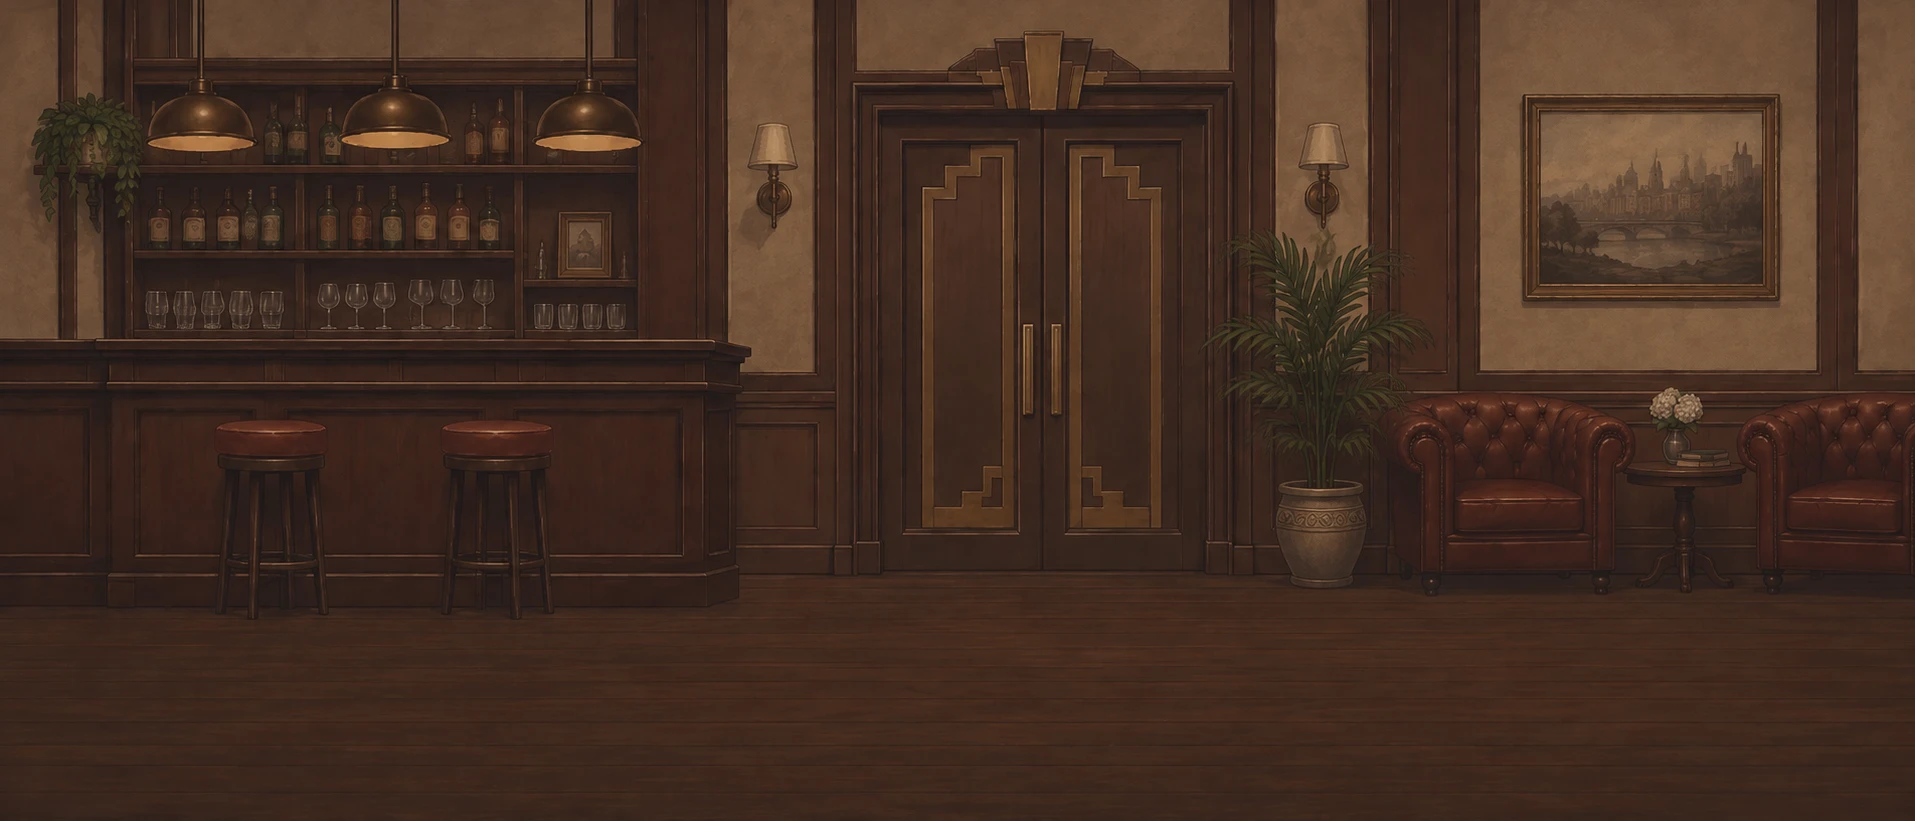
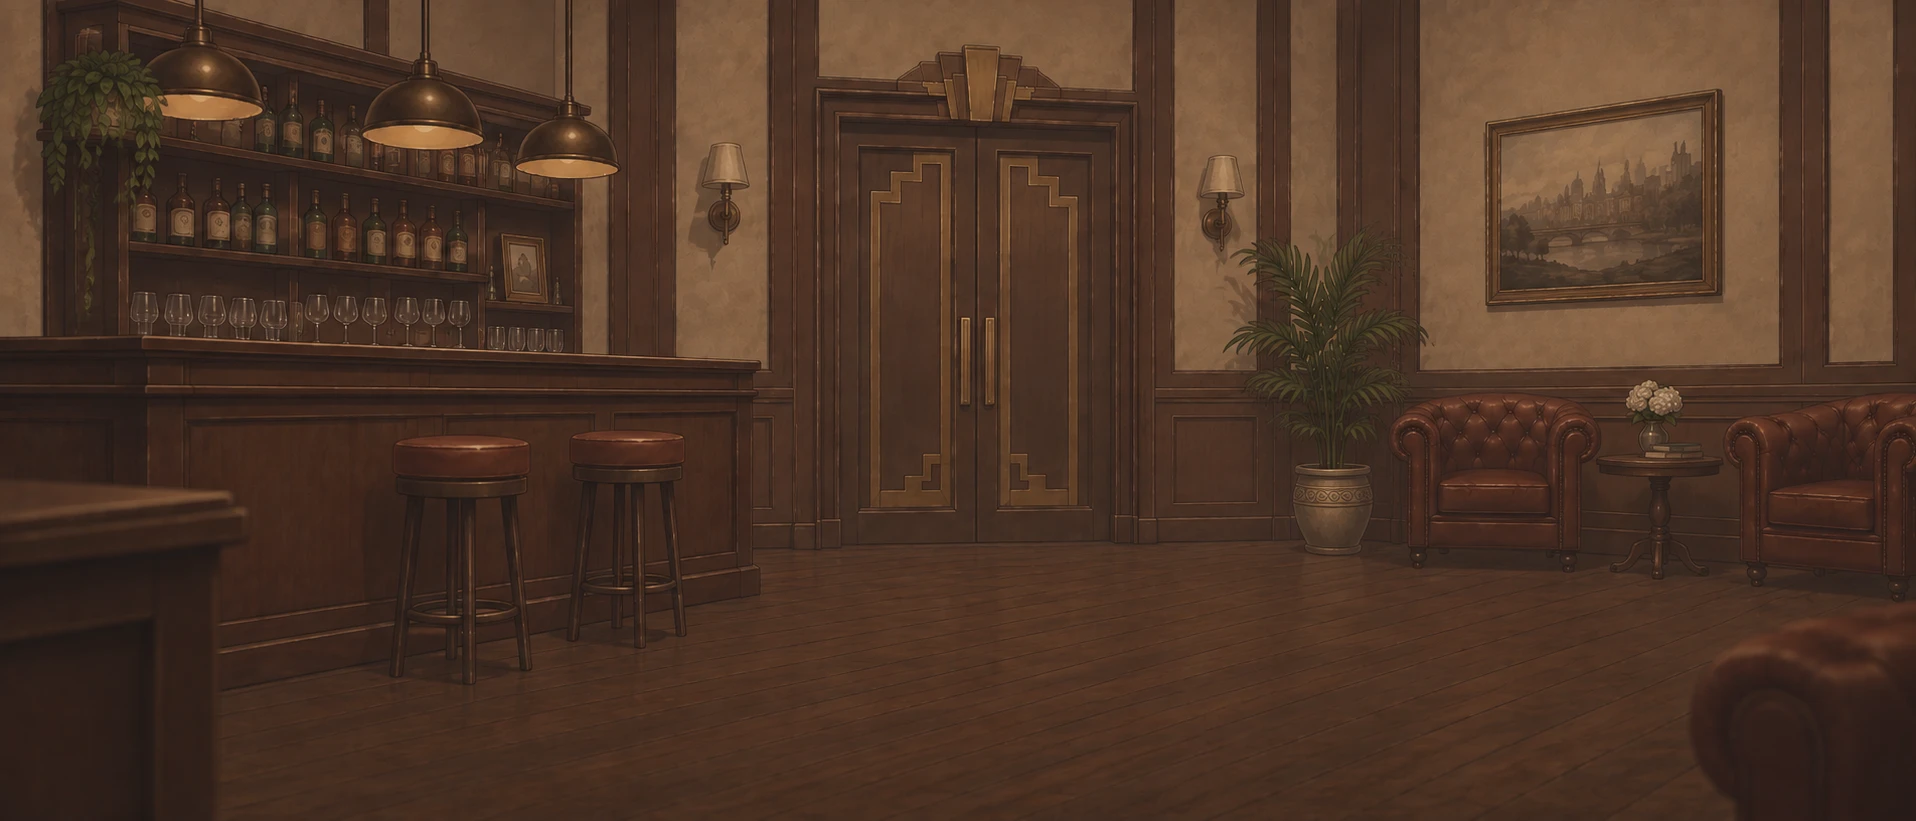
feat: fundo da aba Missoes em perspectiva (3D ilustrado) e bonecos reposicionados (R-MISSAO-CENA-1)

diff --git a/src/web/missionScene.ts b/src/web/missionScene.ts
@@ -36,9 +36,9 @@ export function rollSceneMissions(rand: () => number = Math.random): SceneMissio
 
 // posição (centro, em % da largura da cena), altura (em % da altura da cena) e cores dos bonecos provisórios
 const BOSSES = [
-  { label: 'Trabalho leve', left: 12, h: 46, suit: '#b4b2a6', tie: '#5fa86a' },
-  { label: 'Trabalho médio', left: 43, h: 53, suit: '#6f8a8c', tie: '#d4af37' },
-  { label: 'Trabalho pesado', left: 73, h: 62, suit: '#5b5b63', tie: '#9c2a20' },
+  { label: 'Trabalho leve', left: 30, h: 46, suit: '#b4b2a6', tie: '#5fa86a' },
+  { label: 'Trabalho médio', left: 55, h: 53, suit: '#6f8a8c', tie: '#d4af37' },
+  { label: 'Trabalho pesado', left: 79, h: 62, suit: '#5b5b63', tie: '#9c2a20' },
 ] as const;
 
 const fmt = (n: number) => n.toLocaleString('pt-BR');
